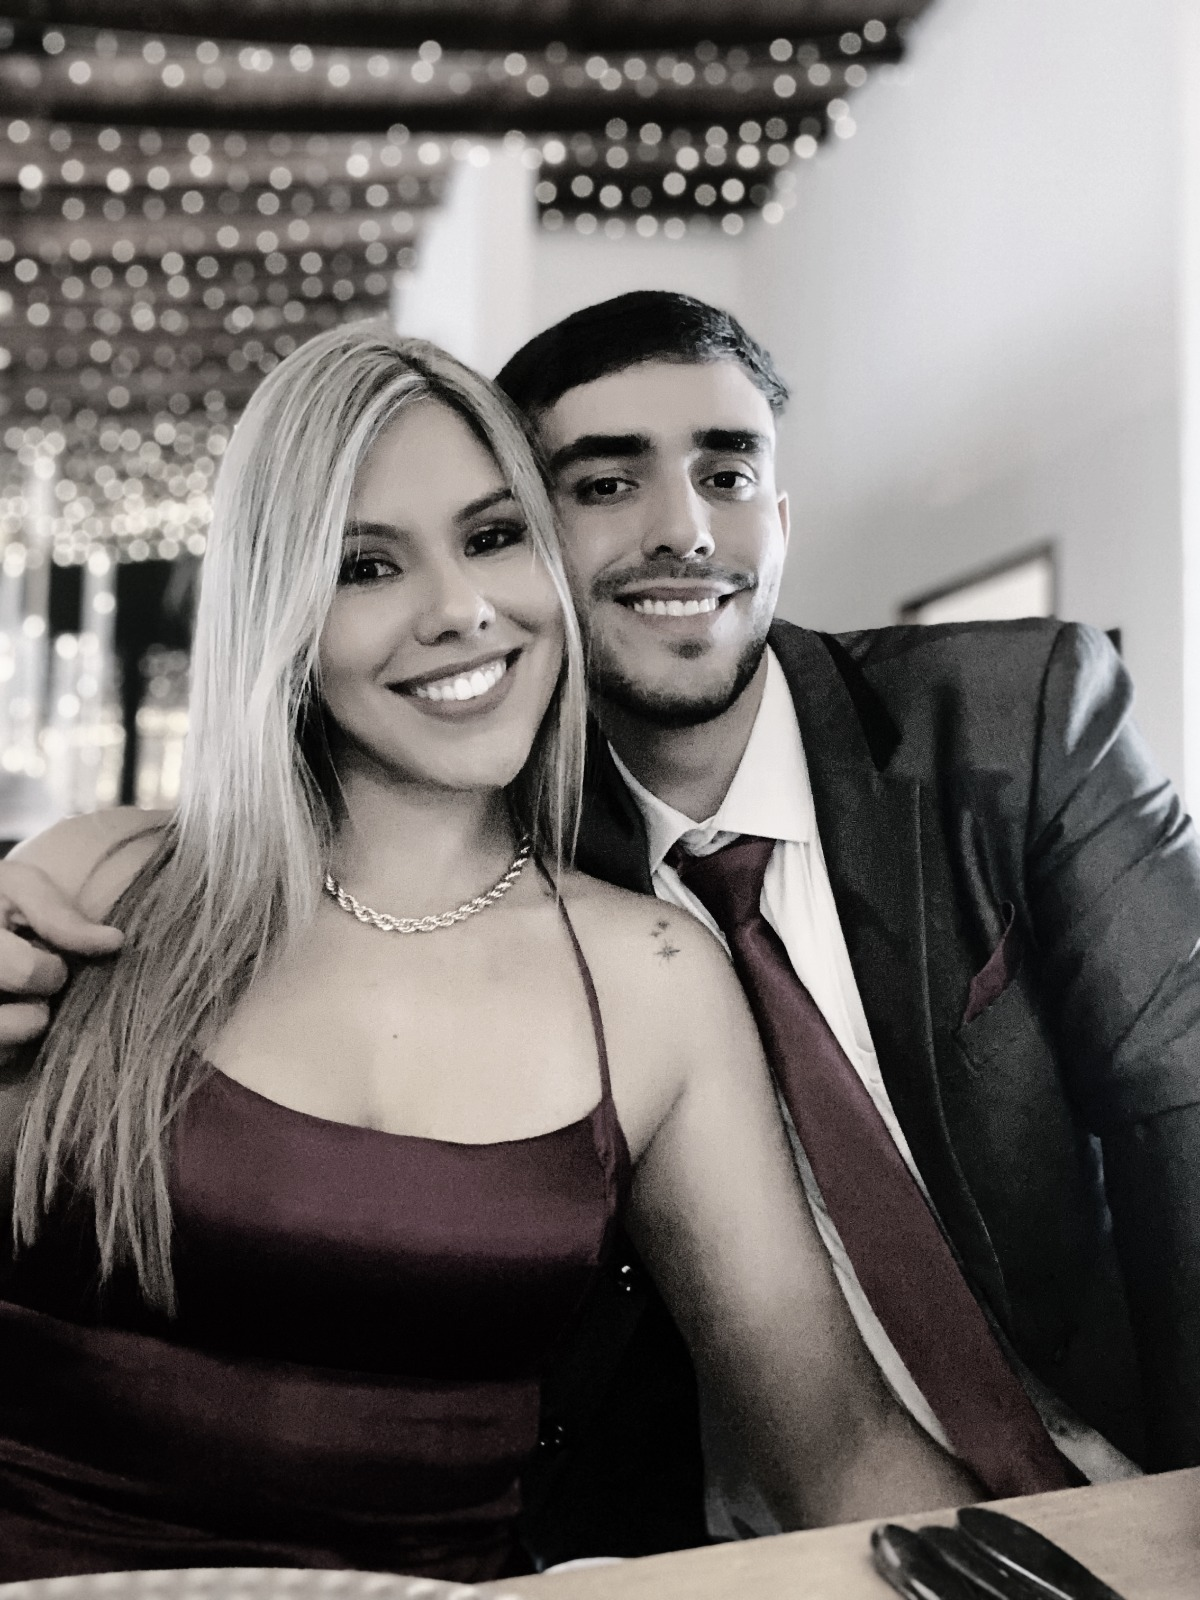
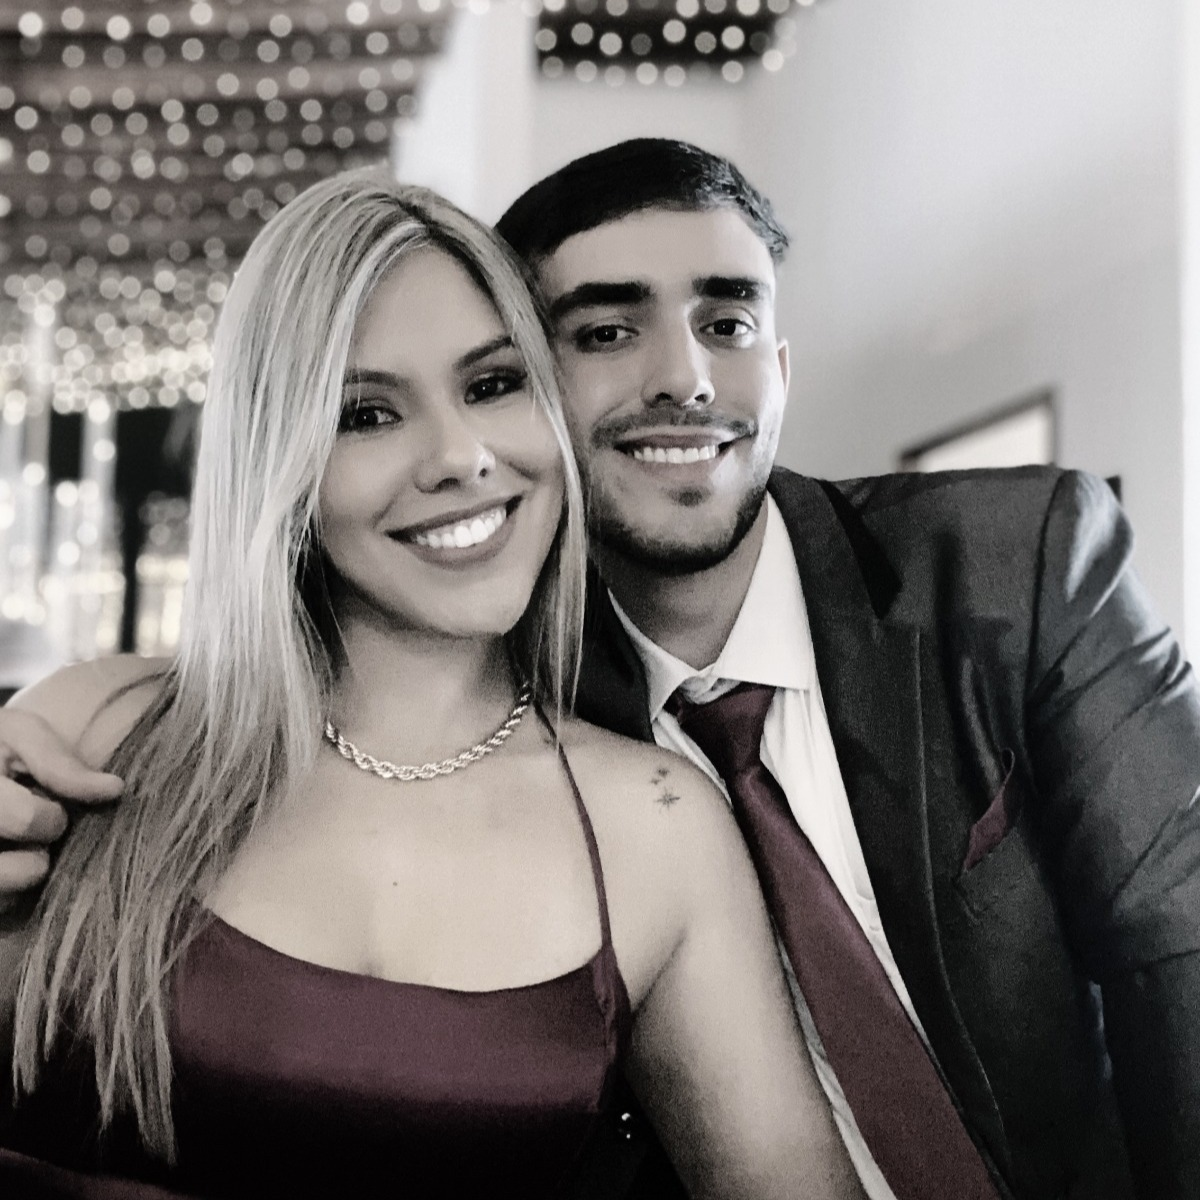
blanco titulo

diff --git a/css/styles.css b/css/styles.css
@@ -118,7 +118,14 @@
 
     .hero--home {
       min-height: 90vh;
-      padding: 2rem;
+      position: relative;
+      overflow: hidden;
+      background-color: var(--bg-accent);
+      font-size: 1.5em;
+    }
+
+    .hero--home p {
+      font-weight: 600;
     }
 
     .hero--home::before {
@@ -126,12 +133,11 @@
       position: absolute;
       inset: 0;
 
-      background:
-        linear-gradient(rgba(0,0,0,0.45), rgba(0,0,0,0.45)),
-        url('../images/hero-desktop.jpg') center / cover no-repeat;
+      background: url('../images/hero-desktop.jpg') center / cover no-repeat;
+      opacity: 0.4;
 
       z-index: 0;
-      margin: 0 0 1rem 0;
+      
     }
 
     .hero--home > * {
@@ -194,7 +200,7 @@
 
     .hero h1 {
       font-family: 'Playfair Display', serif;
-      font-size: clamp(2.5rem, 5vw, 4rem);
+      font-size: clamp(3rem, 6vw, 5rem);
     }
 
     /* Sections */
@@ -381,9 +387,8 @@
       }
 
       .hero--home::before {
-        background:
-          linear-gradient(rgba(0,0,0,0.5), rgba(0,0,0,0.5)),
-          url('../images/hero.jpg') center / contain no-repeat;
+        background: url('../images/hero.jpg') center / contain no-repeat;
+        opacity: 0.4;
       }
 
       .hero--rsvp {

diff --git a/index.html b/index.html
@@ -19,6 +19,7 @@
   <header id="header"></header>
 
   <section class="hero hero--home">
+    
     <p class="eyebrow">¡Nos casamos!</p>
     <h1>Mariana y Felipe</h1>
     <p class="date">Mayo · 17 · 26</p>
